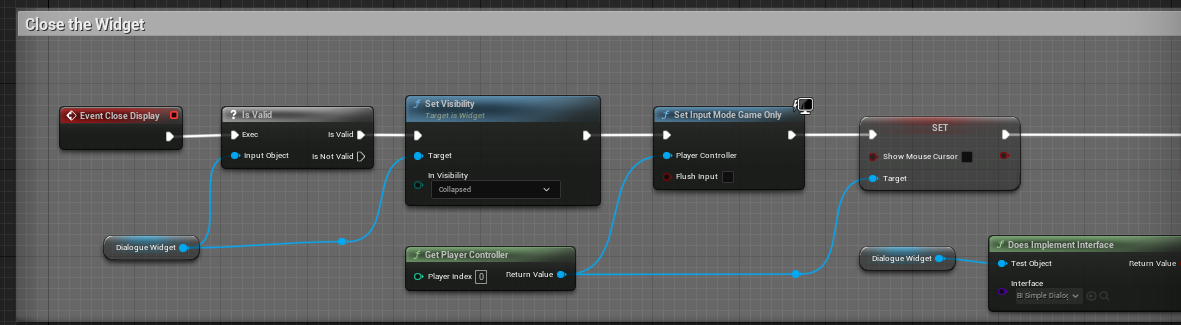
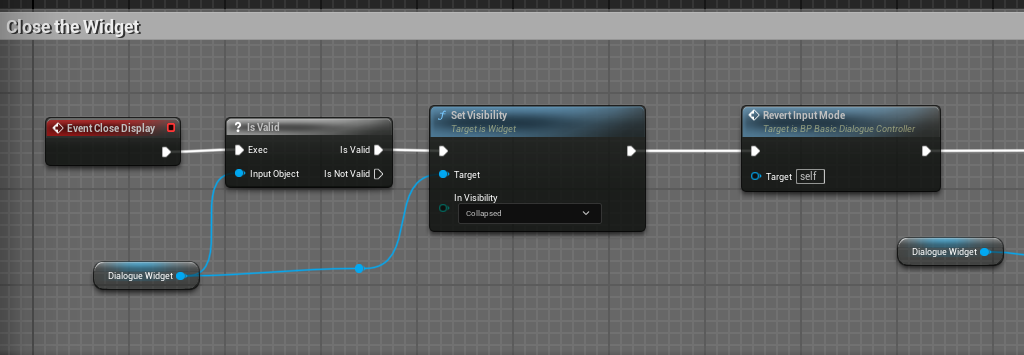
Updated written tutorials to reflect recent changes

Changed region(s): [[0.0, 0.0308, 1.0, 1.0], [0.0625, 0.7077, 0.6875, 0.9231], [0.9688, 0.0923, 1.0, 0.1231]]

diff --git a/docs/DialogueTree/Tutorials/Customization.md b/docs/DialogueTree/Tutorials/Customization.md
@@ -22,6 +22,8 @@ If you would like to support further development on the project you can do so on
 2. [**Customization Overview**](Customization.md#customization-overview)
 3. [**Modifying and Replacing Display Widgets**](Customization.md#modifying-and-replacing-display-widgets)
 4. [**Customizing the Dialogue Controller**](Customization.md#customizing-the-dialogue-controller)
+5. [**How the Default Dialogue Controller Works**](Customization.md#how-the-default-dialogue-controller-works)
+6. [**What Kind of Controller Customizations Can You Do?**](Customization.md#what-kind-of-controller-customizations-can-you-do)
 5. [**Extending the Speaker Component**](Customization.md#extending-the-speaker-component)
 5. [**Summary**](Customization.md#summary)
 
@@ -56,13 +58,17 @@ The other provided Display Widget is W_CRPGDialogueDisplay. As the name implies,
 
 ![C_CRPGDisplayExample02](Images/C_CRPGDisplayExample02.png)
 
-The display widget you use can be set from the Dialogue Controller's details panel. 
+If you are using the default BP_BasicDialogueController, you can override its display widget from Project Settings>>Dialogue Tree by changing the value of Widget Type.  
 
-![C_SetWidgetType01](Images/C_SetWidgetType01.png)
+![C_SetWidgetType01](Images/C_SetWidgetTypeInSettings.png)
 
-![C_SetWidgetType02](Images/C_SetWidgetType02.png)
+To tweak an existing Display Widget, you just need a basic knowledge of UMG. Create a new widget extending either W_BasicDialogueDisplay or W_CRPGDialogueDisplay. 
 
-To tweak an existing Display Widget, you just need a basic knowledge of UMG. The provided widgets can be found in the plugin’s content folder under DisplayWidgets and then the Basic and CRPG folders respectively. Opening the widgets up in UMG will allow you to tweak their visuals to your liking.
+![C_ExtendingDisplayWidget01](Images/C_ExtendingDisplayWidget01.png)
+
+![C_ExtendingDisplayWidget02](Images/C_ExtendingDisplayWidget02.png)
+
+Opening the new widgets up in UMG will allow you to tweak their visuals to your liking.
 
 ![C_TweakingDisplay](Images/C_TweakingDisplay.png)
 
@@ -96,8 +102,59 @@ And On Close allows you to specify behavior to play on closing the widget.
 
 ![C_OnCloseWidget](Images/C_OnCloseWidget.png)
 
+## Default Dialogue Controller Settings
+Even if you decide to stick with the default Dialogue Controller, it’s inevitable that you’ll want to tweak it to better fit your needs. 
+
+As of update 1.1, there are now several configuration options for the default controller available under Project Settings>>Dialogue Tree. 
+
+![C_ConfigureDefaultController](Images/C_ConfigureDefaultController.png)
+
+The "Widget Type" property, as we have already discussed, allows you to change the display widget that the default Controller will use. 
+
+"Widget ZOrder" allows you to change the ZOrder that the Controller will be spawned into in the player's viewport. If you are having an issue where the display widget appears but cannot be clicked on, it is usually because there is a "hit-testable" canvas panel in your project that is physically blocking the input. In such cases, increasing the "Widget ZOrder" value can help solve the issue. 
+
+The "Default Input Mode" is a struct that allows you to configure the input mode settings the default Dialogue Controller will use on exiting dialogue. 
+
+- "Input Mode" defines the overall input mode that will be used. This can be "Game Only," "Game and UI," or "UI Only." 
+- "Flush Input" allows you to set whether existing input will be cleared on exiting dialogue. 
+- "Hide Cursor During Capture," as the name suggests, determines whether the cursor should be hidden during capture. This is only used for "Game and UI" mode. 
+- "Mouse Lock Mode" determines if/how the mouse should be locked to the screen. This is not used for "Game Only" mode. 
+
+Finally, we have "Allow Game Input in Dialogue." This allows you to determine whether normal game input will be allowed while navigating dialogue. In effect, setting this to true means the default Dialogue Controller will set the input mode to "Game and UI" on entering dialogue. Setting it to false means the default Dialogue Controller will set the input mode to "UI Only" on entering dialogue. 
+
+Please note that all non-UI game input, including key presses, is blocked in UI Only mode. As a result, if you want to include hotkeys, a skip button or something similar in your dialogues while "Allow Game Input In Dialogue" is set to true, you will need to set this up via UI inputs. This can be accomplished, for example, by creating a custom display widget and overriding OnMouseButtonDown().
+
+![C_ExampleMouseDownFunction](Images/C_ExampleMouseDownFunction.png)
+
+To access the default Controller settings in your custom dialogue controllers you can call GetDialogueManagerSubsytem() followed by GetSettings().
+
+![C_AccessDefaultControllerSettings](Images/C_AccessDefaultControllerSettings.png)
+
 ## Customizing the Dialogue Controller
-Even if you decide to stick with the default Dialogue Controller, it’s inevitable that you’ll want to tweak it to better fit your needs. So, let’s take a little tour around the controller and how it can be modified.
+
+If you want to customize the behavior of the default controller, you can do so by extending BP_BasicDialogueController in blueprint. 
+
+![C_ExtendDefaultController](Images/C_ExtendDefaultController.png)
+
+As you can see, this allows us to override the individual functions that make up the controller's behavior with new logic. 
+
+![C_ExtendControllerFunctionOverrides](Images/C_ExtendControllerFunctionOverrides.png)
+
+And, if we want to call the default version of the function as part of our custom implementation, all we have to do is right click on the event and select "Add Call to Parent Function."
+
+![C_AddParentFunctionCall](Images/C_AddParentFunctionCall.png)
+
+Another way to add new behavior on top of the default Controller is with a series of blueprint assignable delegates. OnDialogueStarted is called whenever a dialogue opens. OnDialogueEnded is called whenever a dialogue closes. And OnDialogueSpeechDisplayed is called whenever a speech is played, and it passes the speech data along to its subscribers. 
+
+![C_ControllerDelegateOptions](Images/C_ControllerDelegateOptions.png)
+
+Finally, you may not want to use the default Dialogue Controller at all. In that case you can implement your own version in blueprint by extending the base Dialogue Controller class and extending its relevant functions. 
+
+![C_ExtendBaseController](Images/C_ExtendBaseController.png)
+
+## How the Default Dialogue Controller Works
+
+With all of that said, if you're going to extend or replace the Dialogue Controller you're going to need some idea of its various functions and how they fit together. With that in mind, let's take a short tour around the default controller and how it operates. 
 
 Up at the top of the event graph, we have the Initialize event, which gets called from BeginPlay.
 
@@ -127,9 +184,19 @@ And finally, we have Handle Missing Speaker. This is an optional event to implem
 
 With the possible exceptions of Initialize and Handle Missing Speaker, a custom Dialogue Controller ought to implement each of these events. Your game won’t crash if it doesn’t. Your dialogues just won’t play.
 
-That said, even if you stick with the default Dialogue Controller, there’s a fair amount we can do to customize its functionality. Let’s say, for example, that you want to set up a special dialogue camera that flips back and forth between the various speakers. You could add functionality switching your dialogue camera on and off to the open and close display events. And under the Display Speech event, you could add a function or event call that sets the camera’s orientation based on who’s speaking. Similarly, if you want to hook in a lip sync function, you could tack it on as part of your custom Display Speech implementation. 
+## What Kind of Controller Customizations Can You Do?
 
-The point here is that every user-facing phase of dialogue has some kind of function that you can implement yourself, or otherwise modify to include whatever functionality you need. If none of this works the way you want, you’re able to scrap the default controller and create your own in Blueprint. 
+At this point we've covered the various extension points the Dialogue Controller includes to allow you to customize it to your needs. But what kind of customizations can you do, and how might you go about it? 
+
+Here we have an example class that extends BP_BasicDialogueController. 
+
+![C_ExampleChildOfDefaultController](Images/C_ExampleChildOfDefaultController.png)
+
+Let’s say you want to set up a special dialogue camera that flips back and forth between the various speakers. To do this, you could add functionality switching your dialogue camera on and off to the Open and Close Display events. And under the Display Speech event, you could add a function or event call that sets the camera’s orientation based on who’s speaking. 
+
+Similarly, if you want to hook in a lip sync function, you could tack it on as part of your custom Display Speech implementation. 
+
+The point here is that every user-facing phase of dialogue has some kind of function that you can implement yourself, or otherwise extend to include whatever functionality you need. If none of this works the way you want, you’re able to scrap the default controller and create your own in Blueprint. 
 
 The goal of this design was to create a somewhat modular approach, with default options to take the average user most of the way to a complete setup with minimal effort, but with the flexibility for full customization if it is needed.
 
@@ -141,7 +208,7 @@ We covered this somewhat in the Queries and Events tutorial, where we made a cus
 
 ![C_CustomSpeaker01](Images/C_CustomSpeaker01.png)
 
-Another good example is in the included CRPG Speaker Component, which includes a Texture property to use as a portrait. 
+Another good example is in the included CRPG Speaker Component, which introduces a Texture property to use as a portrait. 
 
 ![C_CustomSpeaker02](Images/C_CustomSpeaker02.png)
 
@@ -151,8 +218,8 @@ Ultimately, this is very open ended, so there's only so much advice I can offer 
 In this tutorial we:
 
 1. Reviewed the major objects that can be extended to customize dialogue in your project. These include the Dialogue Controller, the Display Widget, and the Speaker Components.
-2. Discussed how Display Widgets can be modified or replaced to customize the look of dialogue.
-3. Discussed how the Dialogue Controller can be modified or replaced to customize the behavior of dialogue on a more fundamental level.
+2. Discussed how Display Widgets can be extended or replaced to customize the look of dialogue.
+3. Discussed how the Dialogue Controller can be extended or replaced to customize the behavior of dialogue on a more fundamental level.
 4. Discussed how the Speaker Component can be extended to include additional data and functionality.
 
 This concludes the series of introductory tutorials I had planned to get people up to speed with Dialogue Tree. As a brief review:

diff --git a/docs/DialogueTree/Tutorials/QuickStart.md b/docs/DialogueTree/Tutorials/QuickStart.md
@@ -20,7 +20,7 @@ If you would like to support further development on the project you can do so on
 ## Contents
 1. [**Introduction**](QuickStart.md#introduction)
 2. [**Key Concepts**](QuickStart.md#key-concepts-and-roadmap)
-3. [**Adding the Dialogue Controller**](QuickStart.md#adding-the-dialogue-controller)
+3. [**The Dialogue Controller**](QuickStart.md#the-dialogue-controller)
 4. [**Creating a Dialogue**](QuickStart.md#creating-a-dialogue)
 5. [**Adding the Player Speaker Component**](QuickStart.md#adding-the-player-speaker-component)
 6. [**Creating an NPC**](QuickStart.md#creating-an-npc)
@@ -50,20 +50,21 @@ The first one is the Dialogue Controller. You can think of this as the conductor
 
 The second key object is the dialogue asset. This is where you get to write the content of the dialogue itself: who says what and when. 
 
-Finally, we have the Speaker Component, which attaches to your characters and lets them interact 
-with your dialogues. 
+Finally, we have the Speaker Component, which attaches to your characters and lets them interact with your dialogues. 
 
-We'll start by adding a Dialogue Controller to our level, then we'll create a Dialogue, and finally we'll set up our Player and an NPC to get them talking to each other. 
+We'll start by creating a Dialogue, then we'll set up our Player and an NPC, and finally we'll implement some logic in blueprint to get them talking to each other. 
 
-## Adding the Dialogue Controller
-The first thing we want to do is add a Dialogue Controller to our level. As mentioned, this actor governs the user-interface for our dialogue.  
+## The Dialogue Controller
+Before we get started I want to address a small change to the Dialogue Controller that was made in the plugin's Version 1.1 update. As mentioned previously, the Dialogue Controller is an actor that governs the user-interface for your dialogues. 
 
-You can find the default Controller in the plugin's Content folder under Blueprints>>Controllers. While a whole lot of customization is possible here, for the purposes of this tutorial, we're going to keep everything in its default state. Which means all we need to do here is drag our Controller into the level. 
+Before the update, you had to manually drag your Dialogue Controller into the level. After the update this step can be skipped, as the system now automatically spawns in and manages a Dialogue Controller for you. 
+
+If you want to use a custom Dialogue Controller or configure the settings on the default controller you can now do so in Project Settings under Dialogue Tree. I'll go into this more in the updated Customization tutorial, but I wanted to give the change a brief mention here. 
 
 ![QS_Controller](Images/QS_Controller.png)
 
 ## Creating a Dialogue
-Next up we want to create a Dialogue Tree asset. This is where we will define the actual content of a conversation.
+With that out of the way, we want to start by creating a Dialogue Tree asset. This is where we will define the actual content of a conversation.
 
 Right click in the content browser and select “Dialogue Tree.” I’ll name mine, “DLG_" for Dialogue, and then "TestDialogue.”
 
@@ -160,7 +161,7 @@ All that’s left is to test it. Press play and approach the NPC cube. The dialo
 ## Summary
 And that’s all there is to it. To sum up, in this tutorial we covered:
 
-1. How to add a dialogue controller to the level
+1. How Dialogue Controllers relate to our project
 2. How to create a simple Dialogue Tree asset
 3. How to set up Speaker Components
 4. And how to get the dialogue to play

diff --git a/docs/DialogueTree/Tutorials/QueriesAndEvents.md b/docs/DialogueTree/Tutorials/QueriesAndEvents.md
@@ -147,7 +147,7 @@ Open up our new Blueprint Query. The first thing we want to do here is override 
 
 ![QE_OverrideQueryMethods](Images/QE_OverrideQueryMethods.png)
 
-We’ll start with Query Speaker since it’s the simplest of the bunch to explain. This function takes a Speaker Component, which will be supplied from the graph and returns the integer result of the Query.
+We’ll start with Query Speaker since it’s the simplest of the bunch to explain. This function takes a struct consisting of a Speaker Component and its owning Actor, which will be supplied from the graph, and it returns the integer result of the Query.
 
 ![QE_QuerySpeaker](Images/QE_QuerySpeaker.png)
 

diff --git a/docs/DialogueTree/Documentation/DialogueSpeakerComponent.md b/docs/DialogueTree/Documentation/DialogueSpeakerComponent.md
@@ -194,7 +194,6 @@ void TrySkipSpeech();
 ```
 **Note:** A common issue encountered here occurs when game input is set to not be allowed in the project settings. This blocks all input, which prevents TrySkipSpeech() getting called. You can bypass this restriction in one of two ways. Either allow game input while in dialogue, or implement an override of OnKeyDown() or OnMouseDown() in a custom Dialogue Widget. 
 
-<br>
 
 ## 2. Blueprint Implementable Methods 
 The following methods are intended to be implemented by the user in blueprint when creating a custom speaker component.
